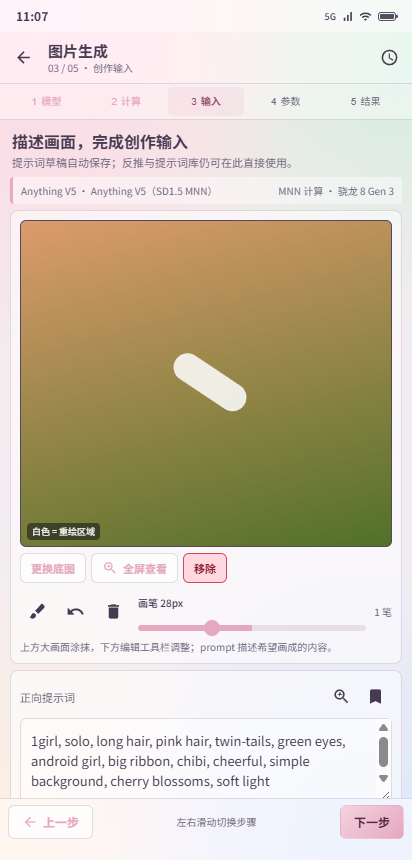
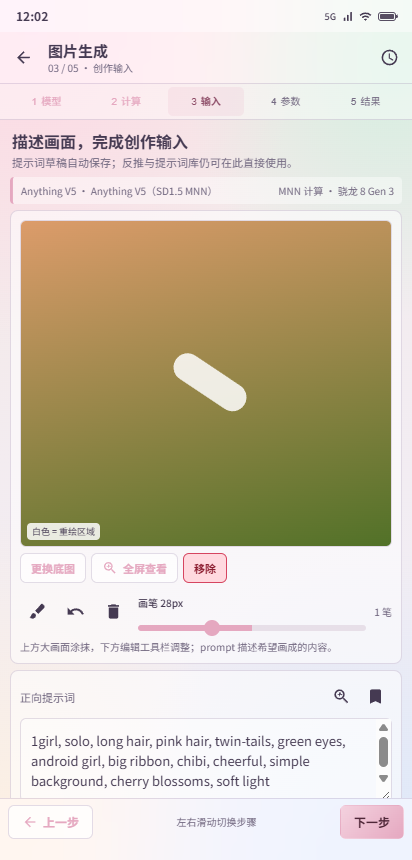
修复: 统一生图创作与结果画布主题

Changed region(s): [[0.0583, 0.6047, 0.2621, 0.6349]]

diff --git a/tests/browser-diffusion-wizard.js b/tests/browser-diffusion-wizard.js
@@ -199,8 +199,21 @@ async function swipe(direction) {
     await sleep(120);
     assert(await evaluate(`window._diffusion.state().mask.strokes.length>0`), 'mask pointer drawing missing');
     assert(await evaluate(`document.querySelector('.diff-strokes').textContent.trim()==='1 笔'`), 'mask stroke count did not update on pointer up');
+    report.creativeLight = await evaluate(`(() => { const css=el=>getComputedStyle(el);
+      return { editor:css(document.querySelector('.diff-media-editor')).backgroundColor,
+        prompt:css(document.querySelector('.diff-prompt-block')).backgroundColor,
+        stage:css(document.querySelector('.diff-workstage')).backgroundColor,
+        input:css(document.querySelector('.diff-prompt')).backgroundColor,
+        hintBg:css(document.querySelector('.diff-mask-label')).backgroundColor,
+        hintColor:css(document.querySelector('.diff-mask-label')).color,
+        onSurface:css(document.querySelector('.diff-workhead h2')).color }; })()`);
+    assert.equal(report.creativeLight.editor,report.creativeLight.prompt,'创作工具与提示词必须统一主题 surface');
+    assert.equal(report.creativeLight.stage,report.creativeLight.input,'创作画布必须使用主题 surfaceVariant 对应色');
+    assert.equal(report.creativeLight.hintColor,report.creativeLight.onSurface,'遮罩提示必须随主题前景色');
+    assert(!/rgba?\(10, 14, 24|rgba?\(56, 44, 72/.test(report.creativeLight.stage+report.creativeLight.hintBg));
     await shot('walk-diff-wizard-inpaint-light.png');
     ok('局部重绘上画面下工具栏与真实涂抹', maskLayout);
+    ok('亮色创作画布/工具/提示统一主题', report.creativeLight);
 
     await click('#diff-foot [data-a="diff-next"]');
     await waitFor(() => evaluate(`window._diffusion.state().step===3`), 3000, 'params step');
@@ -239,12 +252,23 @@ async function swipe(direction) {
     assert(report.result.info.startsWith('Anything V5'),'结果必须来自真实 SD1.5 MNN 演示模型');
     assert(!report.result.info.includes('Anima'),'不得再出现虚构 Anima CPU/MNN 结果');
     assert(report.result.save&&report.result.share&&report.result.template&&report.result.rerun);
+    report.resultSurfaceLight = await evaluate(`(() => { const css=el=>getComputedStyle(el);
+      return { frame:css(document.querySelector('.diff-art-frame')).backgroundColor,
+        zoomBg:css(document.querySelector('.diff-zoom-badge')).backgroundColor,
+        zoomColor:css(document.querySelector('.diff-zoom-badge')).color,
+        favBg:css(document.querySelector('.diff-fav')).backgroundColor,
+        onSurface:css(document.querySelector('.diff-result-info')).color }; })()`);
+    assert.equal(report.resultSurfaceLight.frame,report.creativeLight.stage,'结果画布必须使用主题 surfaceVariant 对应色');
+    assert.equal(report.resultSurfaceLight.zoomColor,report.resultSurfaceLight.onSurface);
+    assert.equal(report.resultSurfaceLight.zoomBg,report.resultSurfaceLight.favBg);
+    assert(!/rgba?\(10, 14, 24/.test(report.resultSurfaceLight.frame+report.resultSurfaceLight.zoomBg+report.resultSurfaceLight.favBg));
     await shot('walk-diff-wizard-result-light.png');
     ok('扫描结果与标题栏保存/分享', report.result);
 
     await click('.diff-result-stage [data-a="diff-open-result"]');
     await waitFor(() => evaluate(`!!document.querySelector('.diff-viewer') && nav.current().page==='diff-image'`), 3000, 'result fullscreen viewer');
     assert(await evaluate(`!!document.querySelector('.diff-viewer-stage') && !!document.querySelector('.diff-viewer-tools') && !document.querySelector('.navbar')`));
+    assert.equal(await evaluate(`getComputedStyle(document.querySelector('.diff-viewer')).backgroundColor`),'rgb(10, 7, 18)','只有全屏查看器保留黑底');
     await click('[data-a="diff-view-zoom"]');
     assert(await evaluate(`document.querySelector('.diff-viewer-stage').classList.contains('zoomed')`));
     await click('.diff-viewer-head [data-a="back"]');
@@ -267,6 +291,14 @@ async function swipe(direction) {
 
     await sleep(2750); // 结果暗色 / 横屏走查图不被人为堆叠的 toast 遮挡。
     await evaluate(`theme.toggle()`); await sleep(250);
+    report.resultSurfaceDark = await evaluate(`(() => { const css=el=>getComputedStyle(el);
+      return { frame:css(document.querySelector('.diff-art-frame')).backgroundColor,
+        zoomBg:css(document.querySelector('.diff-zoom-badge')).backgroundColor,
+        zoomColor:css(document.querySelector('.diff-zoom-badge')).color,
+        onSurface:css(document.querySelector('.diff-result-info')).color }; })()`);
+    assert.notEqual(report.resultSurfaceDark.frame,report.resultSurfaceLight.frame,'暗色画布必须切换主题表面');
+    assert.notEqual(report.resultSurfaceDark.zoomBg,report.resultSurfaceLight.zoomBg,'暗色放大提示必须切换主题表面');
+    assert.equal(report.resultSurfaceDark.zoomColor,report.resultSurfaceDark.onSurface);
     await shot('walk-diff-wizard-result-dark.png');
     assert.equal(await evaluate(`document.documentElement.dataset.theme`),'dark');
     await evaluate(`document.querySelector('[data-a="frame-toggle"]').click()`);
@@ -275,9 +307,19 @@ async function swipe(direction) {
     await shot('walk-diff-wizard-result-landscape-dark.png');
     await goStep(2); await sleep(450);
     await shot('walk-diff-wizard-inpaint-landscape-dark.png');
-    report.landscape = await evaluate(`({overflow:document.documentElement.scrollWidth>innerWidth,
-      stage:!!document.querySelector('#mask-canvas'),nav:!!document.querySelector('.navbar')})`);
+    report.landscape = await evaluate(`(() => { const css=el=>getComputedStyle(el);
+      return { overflow:document.documentElement.scrollWidth>innerWidth,
+        stage:!!document.querySelector('#mask-canvas'),nav:!!document.querySelector('.navbar'),
+        editor:css(document.querySelector('.diff-media-editor')).backgroundColor,
+        prompt:css(document.querySelector('.diff-prompt-block')).backgroundColor,
+        canvas:css(document.querySelector('.diff-workstage')).backgroundColor,
+        hintColor:css(document.querySelector('.diff-mask-label')).color,
+        onSurface:css(document.querySelector('.diff-workhead h2')).color }; })()`);
     assert(!report.landscape.overflow&&report.landscape.stage&&!report.landscape.nav);
+    assert.equal(report.landscape.editor,report.landscape.prompt,'暗色创作工具和提示词必须同 surface');
+    assert.notEqual(report.landscape.canvas,report.creativeLight.stage,'暗色创作画布必须切换主题表面');
+    assert.equal(report.landscape.hintColor,report.landscape.onSurface);
+    ok('暗色创作与结果表面随主题', { result:report.resultSurfaceDark, creative:report.landscape });
     ok('暗色与 1024×680 横屏');
 
     await evaluate(`document.querySelector('[data-a="frame-toggle"]').click()`);

diff --git a/css/app.css b/css/app.css
@@ -1891,17 +1891,17 @@ textarea.field-input { min-height: 84px; resize: vertical; font-family: inherit;
 .diff-neg-head { display: flex; align-items: center; gap: 4px; margin-top: 5px; color: var(--on-surface-variant); font-size: 11px; }
 .diff-workstage {
   position: relative; height: min(38vh, 330px); min-height: 180px; overflow: hidden;
-  border: 1px solid var(--outline-variant); border-radius: 6px; background: var(--inverse-surface);
+  border: 1px solid var(--outline-variant); border-radius: 6px; background: var(--surface-container);
 }
-.diff-stage-view, .diff-stage-empty { width: 100%; height: 100%; border: 0; cursor: pointer; color: #fff; }
-.diff-stage-view > span { display: inline-flex; align-items: center; gap: 5px; padding: 5px 8px; border-radius: 5px; background: rgba(10,14,24,.52); font-size: 11px; }
+.diff-stage-view, .diff-stage-empty { width: 100%; height: 100%; border: 0; cursor: pointer; color: var(--on-surface); }
+.diff-stage-view > span { display: inline-flex; align-items: center; gap: 5px; padding: 5px 8px; border-radius: 5px; background: var(--surface-highest); color: var(--on-surface); font-size: 11px; }
 .diff-stage-empty { display: flex; flex-direction: column; align-items: center; justify-content: center; gap: 6px; background: var(--surface-container); color: var(--on-surface-variant); }
 .diff-stage-empty .ic { width: 34px; height: 34px; }
 .diff-stage-empty strong { color: var(--on-surface); font-size: 13px; }
 .diff-stage-empty span { font-size: 11px; }
 .diff-stage-tools { display: flex; align-items: center; flex-wrap: wrap; gap: 5px; padding-top: 6px; }
 .diff-mask-stage .mask-wrap { height: 100%; aspect-ratio: auto; margin: 0; border-radius: 0; }
-.diff-mask-label { position: absolute; left: 6px; bottom: 6px; padding: 2px 5px; border-radius: 4px; background: rgba(10,14,24,.52); color: #fff; font-size: 9px; pointer-events: none; }
+.diff-mask-label { position: absolute; left: 6px; bottom: 6px; padding: 2px 5px; border-radius: 4px; background: var(--surface-highest); color: var(--on-surface); font-size: 9px; pointer-events: none; }
 .diff-media-editor .mask-toolbar { margin-top: 5px; }
 .diff-media-editor .mask-toolbar .slider-row { flex: 1; min-width: 80px; padding: 0 4px; }
 .diff-media-editor .mask-toolbar .li-title { font-size: 10px; }
@@ -1932,18 +1932,19 @@ textarea.field-input { min-height: 84px; resize: vertical; font-family: inherit;
 .diff-switch-row small { display: block; margin-top: 2px; color: var(--on-surface-variant); font-size: 10px; line-height: 15px; }
 .diff-note { margin-top: 5px; padding: 6px; border-radius: 5px; background: var(--surface-container); color: var(--on-surface-variant); font-size: 10px; line-height: 15px; }
 .diff-result-stage { position: relative; width: 100%; max-width: 620px; margin: 0 auto; }
-.diff-art-frame { position: relative; width: fit-content; max-width: 100%; margin: 0 auto; }
+.diff-art-frame { position: relative; width: fit-content; max-width: 100%; margin: 0 auto; border-radius: 6px; background: var(--surface-container); color: var(--on-surface); }
 .diff-art-frame .diff-art-button { width: auto; max-width: 100%; }
 .diff-art-button { position: relative; display: block; width: 100%; border: 0; background: transparent; cursor: zoom-in; }
 .diff-art {
   position: relative; height: min(44vh, 390px); max-width: 100%; margin: 0 auto; display: flex; flex-direction: column;
-  align-items: center; justify-content: center; gap: 6px; overflow: hidden; border-radius: 6px; color: rgba(255,255,255,.92);
+  align-items: center; justify-content: center; gap: 6px; overflow: hidden; border-radius: 6px;
+  background: var(--surface-container); color: var(--on-surface);
 }
-.diff-art span { font-size: 12px; text-shadow: 0 1px 4px rgba(0,0,0,.35); }
+.diff-art span { font-size: 12px; }
 .diff-art small { font-size: 10px; opacity: .8; }
-.diff-zoom-badge { position: absolute; right: 6px; bottom: 6px; width: 28px; height: 28px; display: flex; align-items: center; justify-content: center; border-radius: 5px; background: rgba(10,14,24,.52); color: #fff; }
+.diff-zoom-badge { position: absolute; right: 6px; bottom: 6px; width: 28px; height: 28px; display: flex; align-items: center; justify-content: center; border-radius: 5px; background: var(--surface-highest); color: var(--on-surface); }
 .diff-zoom-badge .ic { width: 17px; height: 17px; }
-.diff-fav { position: absolute; top: 6px; right: 6px; background: rgba(10,14,24,.52); color: #fff; }
+.diff-fav { position: absolute; top: 6px; right: 6px; background: var(--surface-highest); color: var(--on-surface); }
 .diff-result-info { color: var(--on-surface); font-size: 11px; line-height: 17px; }
 .diff-result-prompt, .diff-result-neg { margin-top: 5px; color: var(--on-surface-variant); font-size: 11px; line-height: 16px; overflow-wrap: anywhere; }
 .diff-result-tools { display: flex; flex-wrap: wrap; gap: 5px; margin-top: 8px; }

diff --git a/index.html b/index.html
@@ -6,7 +6,7 @@
 <title>MoeApk App 原型</title>
 <meta name="theme-color" content="#E94E8A">
 <link rel="icon" type="image/png" href="assets/ic_launcher_fg.png">
-<link rel="stylesheet" href="css/app.css?v=81">
+<link rel="stylesheet" href="css/app.css?v=82">
 </head>
 <body>
 <div class="proto-bar">
@@ -19,32 +19,32 @@
 </div>
 
 <!-- 数据快照（内嵌为全局变量，file:// 直接可开） -->
-<script src="js/data/catalog.js?v=81"></script>
-<script src="js/data/open.js?v=81"></script>
-<script src="js/data/ai.js?v=81"></script>
-<script src="js/data/goods.js?v=81"></script>
-<script src="js/data/prompts.js?v=81"></script>
+<script src="js/data/catalog.js?v=82"></script>
+<script src="js/data/open.js?v=82"></script>
+<script src="js/data/ai.js?v=82"></script>
+<script src="js/data/goods.js?v=82"></script>
+<script src="js/data/prompts.js?v=82"></script>
 <!-- 核心层 -->
-<script src="js/icons.js?v=81"></script>
-<script src="js/theme.js?v=81"></script>
-<script src="js/store.js?v=81"></script>
-<script src="js/mock.js?v=81"></script>
-<script src="js/ui.js?v=81"></script>
+<script src="js/icons.js?v=82"></script>
+<script src="js/theme.js?v=82"></script>
+<script src="js/store.js?v=82"></script>
+<script src="js/mock.js?v=82"></script>
+<script src="js/ui.js?v=82"></script>
 <!-- 页面（与 Compose 源文件一一对照，见 README 对照表） -->
-<script src="js/screens/apk.js?v=81"></script>
-<script src="js/screens/goods.js?v=81"></script>
-<script src="js/screens/assets.js?v=81"></script>
-<script src="js/screens/ai.js?v=81"></script>
-<script src="js/screens/ai-llm.js?v=81"></script>
-<script src="js/screens/ai-diffusion.js?v=81"></script>
-<script src="js/screens/ai-tts.js?v=81"></script>
-<script src="js/screens/ai-models.js?v=81"></script>
-<script src="js/screens/ai-prompt.js?v=81"></script>
-<script src="js/screens/download.js?v=81"></script>
-<script src="js/screens/mine.js?v=81"></script>
-<script src="js/screens/pages-account.js?v=81"></script>
-<script src="js/screens/about.js?v=81"></script>
-<script src="js/screens/wallpaper-dialog.js?v=81"></script>
+<script src="js/screens/apk.js?v=82"></script>
+<script src="js/screens/goods.js?v=82"></script>
+<script src="js/screens/assets.js?v=82"></script>
+<script src="js/screens/ai.js?v=82"></script>
+<script src="js/screens/ai-llm.js?v=82"></script>
+<script src="js/screens/ai-diffusion.js?v=82"></script>
+<script src="js/screens/ai-tts.js?v=82"></script>
+<script src="js/screens/ai-models.js?v=82"></script>
+<script src="js/screens/ai-prompt.js?v=82"></script>
+<script src="js/screens/download.js?v=82"></script>
+<script src="js/screens/mine.js?v=82"></script>
+<script src="js/screens/pages-account.js?v=82"></script>
+<script src="js/screens/about.js?v=82"></script>
+<script src="js/screens/wallpaper-dialog.js?v=82"></script>
 <script>
   nav.applyHash();
 </script>

diff --git a/tests/ai-diffusion-wizard.test.js b/tests/ai-diffusion-wizard.test.js
@@ -29,6 +29,26 @@ test('生图是独立全屏五步向导，并提供独立图片查看页', () =>
   assert.match(css, /\.diff-step\s*\{[^}]*flex:\s*0 0 100%/s);
 });
 
+test('创作与结果画布使用主题表面，只有全屏查看器保留黑底', () => {
+  const css = read('css/app.css');
+  assert.match(css, /\.diff-workstage\s*\{[^}]*background:\s*var\(--surface-container\)/s);
+  assert.doesNotMatch(css, /\.diff-workstage\s*\{[^}]*inverse-surface/s);
+  assert.match(css, /\.diff-art-frame\s*\{[^}]*background:\s*var\(--surface-container\)/s);
+  assert.match(css, /\.diff-art\s*\{[^}]*background:\s*var\(--surface-container\);[^}]*color:\s*var\(--on-surface\)/s);
+  assert.match(css, /\.diff-stage-empty\s*\{[^}]*background:\s*var\(--surface-container\);[^}]*color:\s*var\(--on-surface-variant\)/s);
+  assert.match(css, /\.diff-empty\s*\{[^}]*color:\s*var\(--on-surface-variant\)/s);
+  assert.match(css, /\.diff-empty strong\s*\{[^}]*color:\s*var\(--on-surface\)/s);
+  for (const selector of ['diff-stage-view > span', 'diff-mask-label', 'diff-zoom-badge', 'diff-fav']) {
+    const rule = css.match(new RegExp('\\.' + selector.replace(/[.*+?^${}()|[\]\\]/g, '\\$&') + '\\s*\\{([^}]*)\\}'));
+    assert.ok(rule, selector);
+    assert.match(rule[1], /background:\s*var\(--surface-highest\)/, selector);
+    assert.match(rule[1], /color:\s*var\(--on-surface\)/, selector);
+    assert.doesNotMatch(rule[1], /rgba\(10,14,24|#fff/i, selector);
+  }
+  assert.ok(screen.includes('diff-block diff-prompt-block'));
+  assert.match(css, /\.diff-viewer\s*\{[^}]*background:\s*#0a0712/s);
+});
+
 test('计算模式只有 CPU/GPU/NPU，CPU/MNN 路径使用真实 SD1.5 演示模型', () => {
   const block = screen.match(/const COMPUTE = \[(.*?)\];/s)[1];
   const ids = [...block.matchAll(/\{ id: '([^']+)'/g)].map(m => m[1]);
@@ -92,5 +112,5 @@ test('生图原型保持纯静态，无网络或模块依赖', () => {
   const html = read('index.html');
   const versions = [...html.matchAll(/\?v=(\d+)/g)].map(m => m[1]);
   assert.ok(versions.length >= 20);
-  assert.ok(versions.every(v => v === '81'));
+  assert.ok(versions.every(v => v === '82'));
 });

diff --git a/js/screens/ai-diffusion.js b/js/screens/ai-diffusion.js
@@ -376,7 +376,7 @@
     let h = stepTitle('描述画面，完成创作输入', '提示词草稿自动保存；反推与提示词库仍可在此直接使用。');
     h += selectionSummary(d);
     if (d.mode === 'img' || d.mode === 'inpaint') h += baseEditor(d);
-    h += '<section class="diff-block"><div class="diff-field-head"><label for="diff-prompt">正向提示词</label><div class="diff-inline-tools">' +
+    h += '<section class="diff-block diff-prompt-block"><div class="diff-field-head"><label for="diff-prompt">正向提示词</label><div class="diff-inline-tools">' +
       '<button class="diff-icon" data-a="diff-caption" title="从图片反推提示词">' + icon('zoom_in') + '</button>' +
       '<button class="diff-icon" data-a="diff-prompt-lib" title="从提示词库选取">' + icon('bookmark') + '</button></div></div>' +
       '<textarea id="diff-prompt" class="field-input diff-prompt" data-keep="diff-prompt" placeholder="提示词（英文，逗号分隔）">' + esc(d.prompt) + '</textarea>' +

diff --git a/js/screens/about.js b/js/screens/about.js
@@ -3,7 +3,7 @@
 // 原型版本约定：PROTO_COMMIT / PROTO_DATE 记录本原型自身的 git 提交，
 // 由维护者在每次提交前更新为当前 HEAD（提交者无需处理）。
 // App 关于页显示同形态的一行，值为其 UX 同步所依据的原型提交。
-const PROTO_COMMIT = '9e312f9';
+const PROTO_COMMIT = '29ddf56';
 const PROTO_DATE = '2026-11-16';
 const PROTO_COMMIT_URL = 'https://github.com/Attect/moeapk-app-ux/commit/';
 

diff --git a/tests/ai-llm-contract.test.js b/tests/ai-llm-contract.test.js
@@ -59,5 +59,5 @@ test('所有静态资源统一使用本轮版本号', () => {
   const html = read('index.html');
   const versions = [...html.matchAll(/\?v=(\d+)/g)].map(m => m[1]);
   assert.ok(versions.length >= 20);
-  assert.ok(versions.every(v => v === '81'));
+  assert.ok(versions.every(v => v === '82'));
 });

diff --git a/docs/design-notes.md b/docs/design-notes.md
@@ -82,6 +82,8 @@
 
 **原型同步与走查**：`ai-diffusion.js` 重构为五步向导和 `diff-image`；`js/data/ai.js` 新增 Anything V5 SD1.5 MNN 演示模型与后端元数据；`app.css` 新增紧凑工作台、全屏查看和横竖屏样式；新增 `tests/browser-diffusion-wizard.js` 与 `tests/ai-diffusion-wizard.test.js`。覆盖模型下载自动前进、三类 SoC / 后端不兼容、双向真实触摸、提示词与反推、遮罩、数字步数、双图扫描、结果 / 历史全屏、独立设置、明暗、360px 窄屏、1024×680 横屏、`file://` 零外部请求与浏览器异常。初版全部资源版本号为 v=80；Anima 后端真实性纠正后统一递增为 **v=81**，并增加「SD1.5 不显示 SDXL 宽高比」「结果不得出现虚构 Anima CPU/MNN」回归断言。
 
+**同日主题修正（真机「一块黑一块白」）**：原型创作舞台曾使用 `inverse-surface`，底图 / 遮罩标签、结果收藏与放大角标也固定黑底白字，和浅色工具卡形成硬拼接。现创作工具区与提示词块统一主题 surface；创作及结果画布使用 `surface-container`（对应 Compose `surfaceVariant`），空态、底图 / 遮罩标签、收藏与放大提示使用主题表面及 `onSurface` / `onSurfaceVariant`。仅 `diff-image` 全屏图片查看器保留 `#0a0712` 黑底、深色顶栏与查看工具栏，不能把这次修正扩大到全屏看图。Compose 同样以主题 surface / surfaceVariant 区分工具和画布，不再在向导内混入固定黑色舞台。新增亮色 / 暗色计算样式与全屏查看器黑底回归断言，全部资源版本号 **v=82**。
+
 ### 第三十四轮（2026-11-11，主页面引导气泡真实透明磨砂）
 
 **起因**：五个主 Tab 的一次性「知道了」气泡虽然声明了 backdrop blur，但原先悬浮底色和额外粉紫渐变使其观感比底部导航更深。用户明确要求气泡也必须具有背景模糊、与底栏观感一致，并且点击后不再出现。
